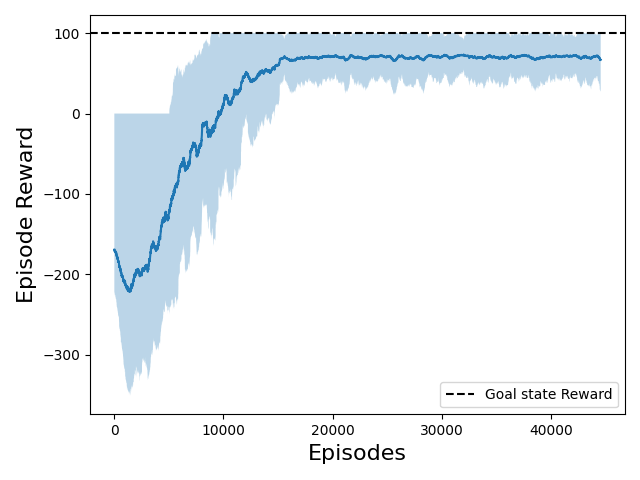
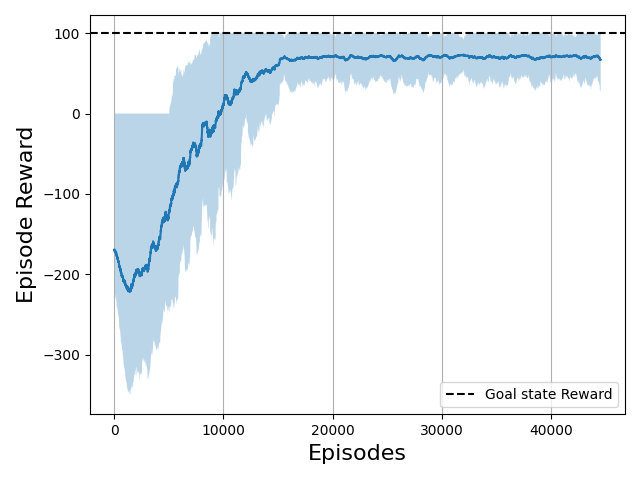
model free control done both mc and sarsa

diff --git a/examples/safe_sarsa.py b/examples/safe_sarsa.py
@@ -57,16 +57,19 @@ plt.ylabel('Episode Reward',fontsize=16)
 plt.xlabel('Episodes',fontsize=16)
 plt.axhline(y=100,color='k',ls='--',label="Goal state Reward")
 plt.legend(loc="lower right")
+plt.grid(axis='x')
 plt.tight_layout()
 plt.savefig("./logs/safe_sarsa/reward.png")
 plt.close()
 
-plt.plot(risk)
+plt.plot(risk,lw=2)
 plt.yticks(np.arange(0,1.1,0.1))
 plt.ylabel('Risk (0)',fontsize=16)
 plt.xlabel('Episodes',fontsize=16)
-plt.tight_layout()
+plt.axhline(y=unsafe_prob,color='green',ls='-.',label='Unsafe threshold')
+plt.legend(loc='upper right')
 plt.grid(axis='y')
+plt.tight_layout()
 plt.savefig("./logs/safe_sarsa/risk.png")
 plt.close()
 

diff --git a/examples/safe_mc.py b/examples/safe_mc.py
@@ -51,16 +51,19 @@ plt.ylabel('Episode Reward',fontsize=16)
 plt.xlabel('Episodes',fontsize=16)
 plt.axhline(y=100,color='k',ls='--',label="Goal state Reward")
 plt.legend(loc="lower right")
+plt.grid(axis='x')
 plt.tight_layout()
 plt.savefig("./logs/safe_mc/reward.png")
 plt.close()
 
-plt.plot(risk)
+plt.plot(risk,lw=2)
 plt.yticks(np.arange(0,1.1,0.1))
 plt.ylabel('Risk (0)',fontsize=16)
 plt.xlabel('Episodes',fontsize=16)
-plt.tight_layout()
+plt.axhline(y=unsafe_prob,color='green',ls='-.',label='Unsafe threshold')
+plt.legend(loc='upper right')
 plt.grid(axis='y')
+plt.tight_layout()
 plt.savefig("./logs/safe_mc/risk.png")
 plt.close()
 
